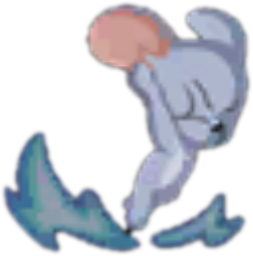
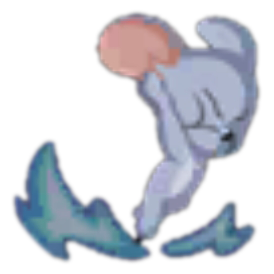
feat: enhance skill image display in CharacterDetails

diff --git a/src/components/displays/characters/CharacterDetails.tsx b/src/components/displays/characters/CharacterDetails.tsx
@@ -239,18 +239,19 @@ export default function CharacterDetails({ character, isDetailedView: propIsDeta
           <div className="space-y-6">
             {character.skills.map((skill) => {              return (
                 <div key={skill.id} className="card p-6">
-                  <div className="flex justify-between items-start">
-                    {/* Skill Image */}
+                  <div className="flex justify-between items-start">                    {/* Skill Image */}
                     {skill.imageUrl && (
-                      <div className="flex-shrink-0 mr-4">
-                        <img
-                          src={skill.imageUrl}
-                          alt={skill.name}
-                          className="w-16 h-16 object-cover rounded-lg border-2 border-gray-200"
-                        />
+                      <div className="flex-shrink-0 mr-6">
+                        <div className="relative w-16 h-16 rounded-full border-2 border-gray-200 overflow-hidden">
+                          <img
+                            src={skill.imageUrl}
+                            alt={skill.name}
+                            className="w-full h-full object-cover scale-75" // 缩小图像内容
+                          />
+                        </div>
                       </div>
                     )}
-                    
+
                     <div className="flex-1">
                       <div className="flex justify-between items-center">
                         <h3 className="text-xl font-bold px-2 py-2">
